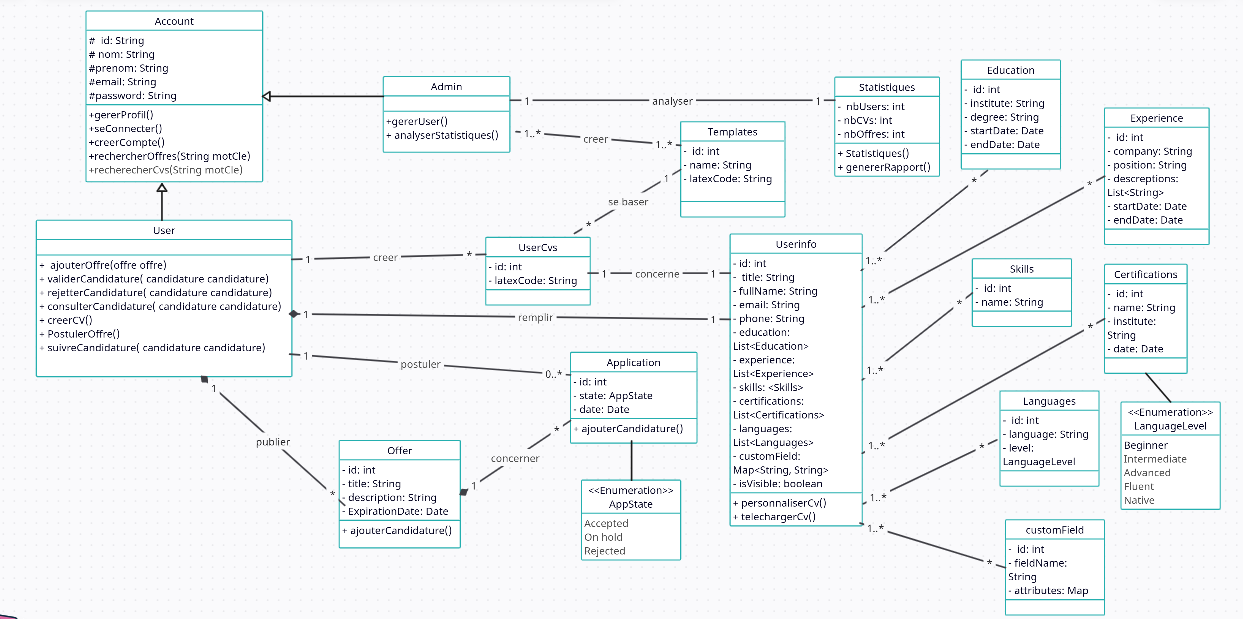
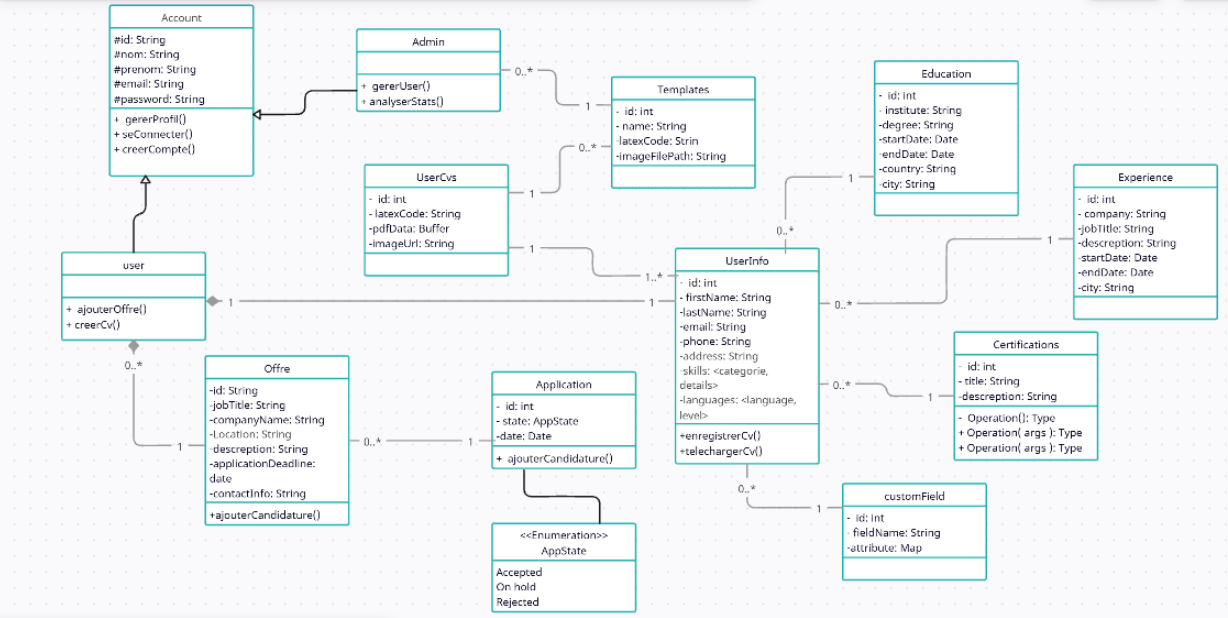
centred section titles, and corrected the class diagram

diff --git a/Rapport/Rapport.tex b/Rapport/Rapport.tex
@@ -41,11 +41,11 @@
 
 % --- Personnalisation du style des sections ---
 \titleformat{\section}[block]  
-{\centering\bfseries\Huge\vspace{5cm}\color{darkblue}}  % Centre horizontalement, police moderne et grande
+{\centering\bfseries\Huge\vspace*{\fill}\color{darkblue}}  % Centre horizontalement et verticalement, police moderne et grande
 {Section \thesection:}  % Section numérotée sous la forme "Section X: "
 {9pt}  
 {\parbox{0.9\textwidth}{\centering}} % Wrap inside a centered box
-[\vspace{0.4pt}\rule{\textwidth}{1pt}\vspace{1pt}] % Ligne SOUS le titre
+[\vspace{0.4pt}\rule{\textwidth}{1pt}\vspace{1pt}\vspace*{\fill}] % Ligne SOUS le titre
 
 % Sous-sections styling
 \titleformat{\subsection}
@@ -214,6 +214,7 @@ Ce projet illustre comment les technologies web modernes peuvent répondre à de
 
 \section{Introduction Générale}
 \justifying
+\clearpage
 
 \vspace*{\fill} % Vertical centering
 Ce rapport présente Nibras, notre plateforme web de génération de CV professionnels, développée dans le cadre du Projet de Fin d'Études à l'École Supérieure de Technologie de Safi sous la supervision du Professeur Abdelouahad BAYAR. Le nom Nibras, emprunté à l'arabe pour désigner un "guide lumineux", reflète l'ambition du projet : éclairer le parcours des chercheurs d'emploi en leur offrant des outils intuitifs pour mettre en lumière leurs compétences.
